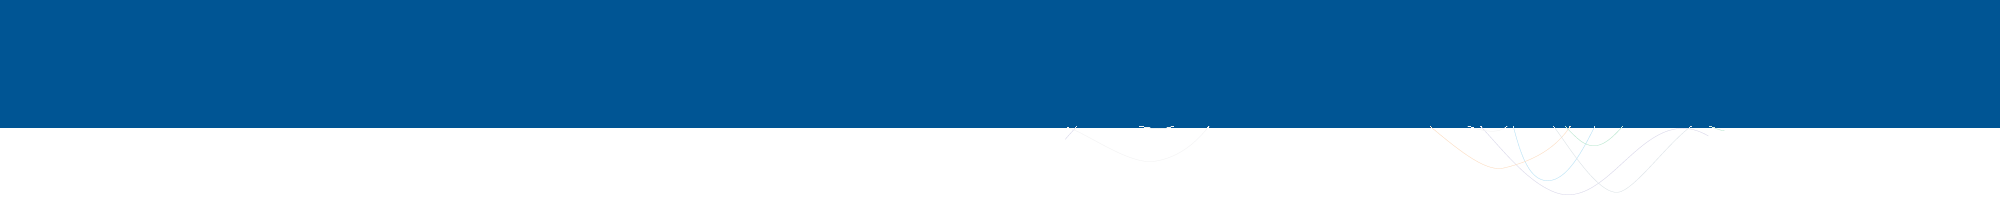
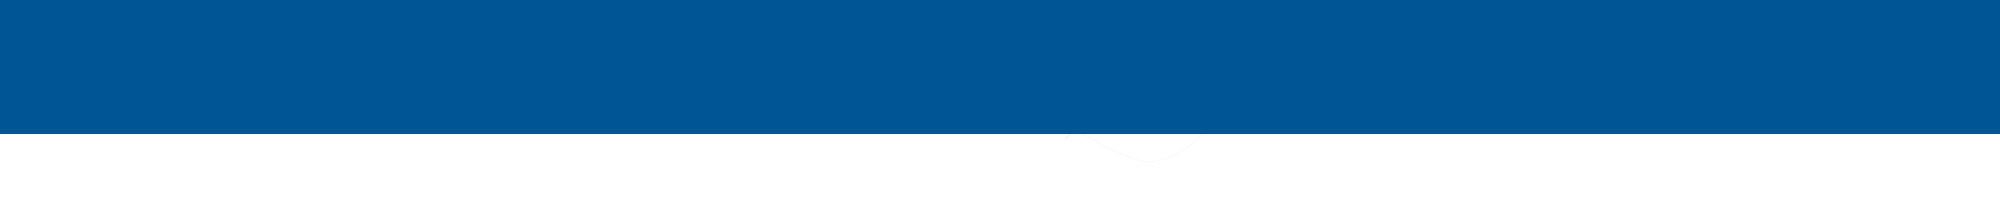
Images

Changed region(s): [[0.0, 0.6087, 1.0, 0.6667]]

diff --git a/css/wilma.css b/css/wilma.css
@@ -53,7 +53,7 @@ body {
     margin: 0 auto;
 }
 body {
-   background: #f3f3f0 url(../images/header-background.png) center 0 no-repeat; 
+   background: #fff url(../images/header-background.png) center 0 no-repeat; 
 }
 a:hover {
     text-decoration: none;
